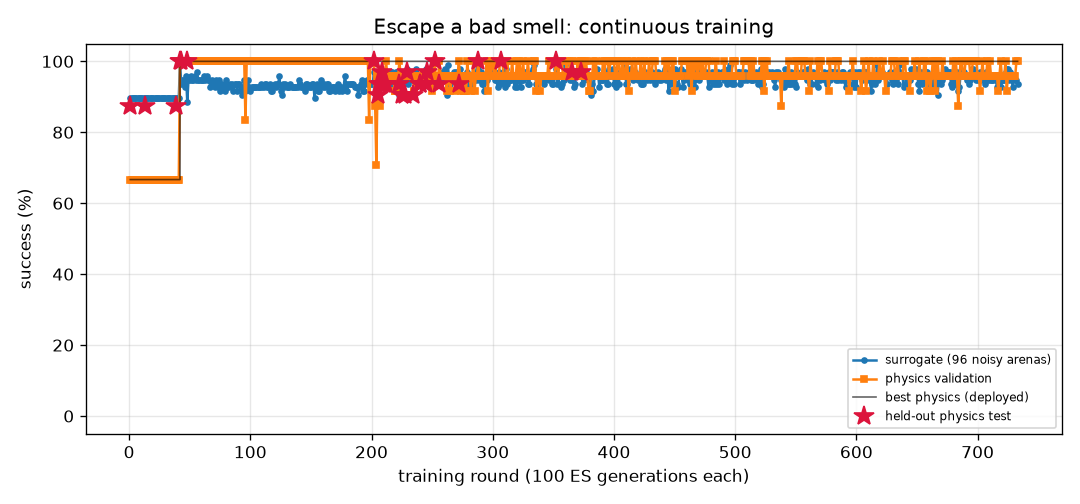
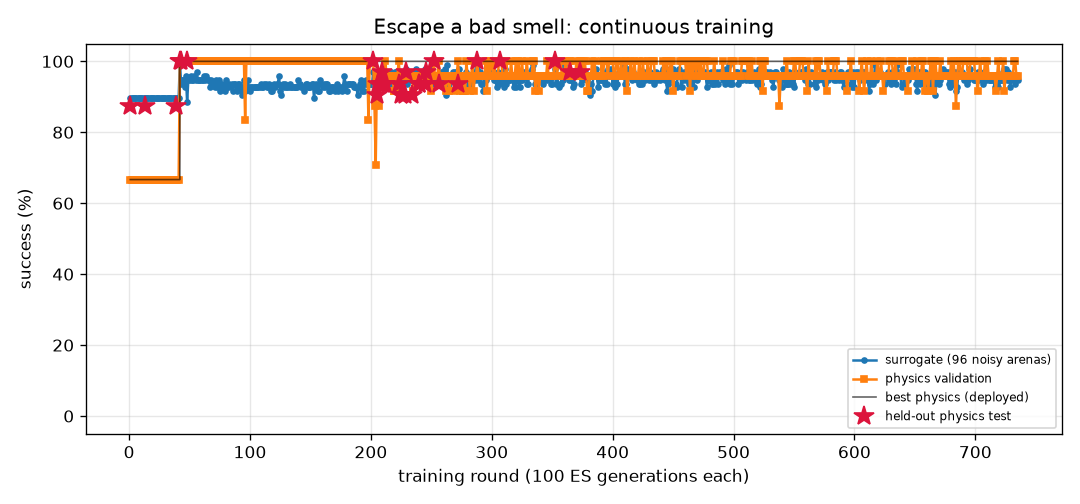
FlyLab: continuous training progress
- walk_forward: optimal, physics val 100% of 24, round 261
- turn: optimal, physics val 100% of 24, round 808
- goto: optimal, physics val 100% of 24, round 214
- odor_seek: optimal, physics val 100% of 24, round 182
- odor_avoid: optimal, physics val 100% of 24, round 735
- light_seek: optimal, physics val 100% of 24, round 409
- light_avoid: optimal, physics val 100% of 24, round 467

diff --git a/projects/09_flylab/training/odor_avoid/REPORT.md b/projects/09_flylab/training/odor_avoid/REPORT.md
@@ -1,14 +1,14 @@
 # Escape a bad smell (`odor_avoid`) — training report
 
-*Auto-generated by `train_brains.py`, last updated 2026-11-01T22:56:34.*
+*Auto-generated by `train_brains.py`, last updated 2026-11-02T19:42:33.*
 
 ![curve](curve.png)
 
 | | |
 |---|---|
-| rounds | 733 |
-| ES generations | 73300 |
-| physics runs | 14898 |
+| rounds | 735 |
+| ES generations | 73500 |
+| physics runs | 14946 |
 | status | **optimal** |
 | best brain | round 373: physics validation **100%** on 24 arenas, surrogate 97% |
 | held-out physics test | **97%** on 32 unseen arenas (95% CI 84%-99%) (errors: [62.0, 57.4, 62.6, 61.9, 59.0, 61.6, 56.5, 60.7, 31.7, 60.9, 63.1, 57.1, 61.1, 62.1, 61.5, 60.2, 62.2, 55.2, 62.1, 54.2, 61.3, 62.0, 58.0, 61.9, 59.8, 56.5, 56.3, 56.4, 56.3, 57.7, 61.9, 32.4]) |
@@ -17,8 +17,6 @@ Physics error per arena: mm gained away from source (> 6 without first approachi
 
 | round | level | gens | sigma | surrogate | physics val | val errors | test | note |
 |---:|---:|---:|---:|---:|---:|---|---:|---|
-| 694 | 3 | 69400 | 0.026 | 95% | 96% | [61.2, 60.4, 56.4, 60.7, 61.8, 62.2, 62.0, 27.5, 62.1, 56.0, 60.4, 61.6, 50.8, 55.8, 31.2, 59.8, 61.9, 60.8, 54.4, 57.2, 61.7, 50.9, 59.7, 53.4] |  |  |
-| 695 | 3 | 69500 | 0.027 | 98% | 96% | [61.1, 56.0, 55.9, 59.6, 61.8, 59.0, 61.5, 32.1, 61.5, 60.8, 60.8, 61.8, 51.7, 55.6, 34.0, 61.4, 61.8, 62.0, 54.6, 55.7, 61.6, 53.8, 60.1, 51.9] |  |  |
 | 696 | 3 | 69600 | 0.025 | 98% | 100% | [61.4, 58.4, 55.9, 59.2, 61.5, 60.9, 60.6, 43.7, 60.9, 42.9, 59.3, 61.3, 51.3, 57.1, 50.6, 61.1, 60.6, 60.8, 54.0, 54.4, 61.5, 61.7, 59.5, 59.3] |  |  |
 | 697 | 3 | 69700 | 0.025 | 96% | 100% | [60.5, 59.3, 57.4, 59.7, 61.4, 62.8, 61.1, 45.9, 61.4, 61.8, 57.2, 61.4, 51.9, 58.2, 40.2, 61.4, 61.5, 62.3, 54.4, 58.4, 61.6, 61.1, 60.0, 60.8] |  | restart from best |
 | 698 | 3 | 69800 | 0.026 | 96% | 100% | [62.6, 57.3, 57.4, 59.2, 62.4, 61.9, 61.0, 60.1, 61.7, 60.2, 62.2, 62.0, 55.3, 58.2, 51.7, 62.3, 62.1, 61.9, 55.4, 57.1, 62.7, 62.6, 61.5, 62.1] |  |  |
@@ -57,3 +55,5 @@ Physics error per arena: mm gained away from source (> 6 without first approachi
 | 731 | 3 | 73100 | 0.026 | 95% | 96% | [61.3, 56.5, 55.6, 56.2, 61.6, 60.0, 61.4, 35.8, 61.2, 59.8, 61.6, 61.7, 54.6, 57.3, 35.9, 60.6, 61.7, 59.9, 55.4, 56.6, 61.9, 60.3, 59.2, 59.4] |  |  |
 | 732 | 3 | 73200 | 0.027 | 95% | 100% | [57.4, 51.2, 54.4, 51.4, 56.3, 54.9, 57.9, 54.1, 55.0, 52.2, 46.4, 58.6, 46.9, 53.4, 37.6, 56.6, 59.0, 55.8, 49.8, 54.2, 58.6, 48.8, 54.4, 56.9] |  |  |
 | 733 | 3 | 73300 | 0.027 | 94% | 100% | [55.9, 52.9, 52.4, 52.5, 53.3, 53.3, 52.2, 54.4, 53.3, 43.3, 26.4, 56.5, 44.8, 48.2, 16.0, 54.0, 56.6, 51.9, 47.9, 51.4, 56.3, 54.2, 51.7, 55.3] |  | restart from best |
+| 734 | 3 | 73400 | 0.026 | 96% | 96% | [62.6, 59.0, 56.1, 61.3, 61.8, 61.5, 60.9, 26.1, 61.2, 51.3, 60.6, 61.4, 51.6, 55.9, 36.9, 61.9, 62.2, 56.5, 54.6, 56.7, 61.9, 58.0, 59.5, 48.0] |  |  |
+| 735 | 3 | 73500 | 0.026 | 95% | 96% | [63.6, 61.3, 56.3, 59.1, 61.9, 62.5, 61.9, 45.1, 61.1, 60.5, 61.5, 62.1, 53.6, 56.1, 44.0, 61.8, 62.0, 62.6, 55.6, 58.4, 62.1, 61.3, 57.1, 62.4] |  |  |

diff --git a/projects/09_flylab/training/turn/REPORT.md b/projects/09_flylab/training/turn/REPORT.md
@@ -1,14 +1,14 @@
 # Turn in place (`turn`) — training report
 
-*Auto-generated by `train_brains.py`, last updated 2026-11-02T19:12:30.*
+*Auto-generated by `train_brains.py`, last updated 2026-11-02T19:20:21.*
 
 ![curve](curve.png)
 
 | | |
 |---|---|
-| rounds | 807 |
-| ES generations | 80700 |
-| physics runs | 19614 |
+| rounds | 808 |
+| ES generations | 80800 |
+| physics runs | 19638 |
 | status | **optimal** |
 | best brain | round 80: physics validation **100%** on 24 arenas, surrogate 100% |
 | held-out physics test | **97%** on 32 unseen arenas (95% CI 84%-99%) (errors: [1.6, 3.3, 6.3, 3.7, 1.1, 0.4, 2.4, 2.9, 0.1, 2.6, 0.5, 2.7, 1.5, 3.1, 4.5, 0.2, 0.5, 1.1, 2.0, 4.4, 2.8, 3.2, 0.3, 2.2, 0.5, 3.0, 0.3, 5.4, 0.4, 1.0, 4.7, 10.7]) |
@@ -17,7 +17,6 @@ Physics error per arena: deg from target heading (< 20 = success).
 
 | round | level | gens | sigma | surrogate | physics val | val errors | test | note |
 |---:|---:|---:|---:|---:|---:|---|---:|---|
-| 768 | 3 | 76800 | 0.025 | 99% | 92% | [2.6, 2.1, 4.3, 2.9, 4.6, 0.0, 7.1, 6.2, 7.2, 0.5, 5.3, 1.7, 0.7, 2.2, 4.3, 2.1, 1.6, 1.5, 0.6, 2.0, 6.3, 2.6, 6.0, 1.9] |  | restart from best |
 | 769 | 3 | 76900 | 0.024 | 100% | 75% | [6.7, 7.9, 1.4, 1.8, 1.3, 2.3, 4.2, 3.4, 3.4, 0.5, 3.9, 0.8, 3.9, 2.6, 3.8, 0.5, 0.8, 1.2, 0.8, 0.9, 2.9, 1.2, 3.5, 1.5] |  |  |
 | 770 | 3 | 77000 | 0.024 | 97% | 79% | [5.8, 3.0, 5.5, 0.4, 8.1, 1.2, 6.3, 8.2, 5.9, 0.2, 5.8, 0.1, 1.9, 0.3, 5.2, 2.1, 0.2, 1.3, 1.7, 1.5, 7.8, 0.0, 6.8, 6.0] |  |  |
 | 771 | 3 | 77100 | 0.026 | 99% | 71% | [0.6, 6.1, 2.3, 2.8, 3.4, 0.5, 5.6, 0.5, 4.7, 1.1, 5.2, 0.5, 0.4, 0.8, 6.2, 1.2, 0.9, 2.5, 1.1, 1.0, 5.4, 2.6, 5.9, 4.5] |  |  |
@@ -57,3 +56,4 @@ Physics error per arena: deg from target heading (< 20 = success).
 | 805 | 3 | 80500 | 0.024 | 97% | 58% | [8.8, 9.3, 0.9, 0.8, 3.8, 0.5, 4.0, 3.9, 4.2, 0.5, 2.2, 0.9, 1.2, 3.2, 4.3, 1.2, 0.3, 0.9, 1.4, 0.7, 8.8, 2.0, 4.4, 3.6] |  |  |
 | 806 | 3 | 80600 | 0.026 | 100% | 96% | [4.5, 7.8, 1.9, 3.4, 0.8, 0.9, 4.2, 3.3, 1.9, 0.9, 2.8, 0.2, 2.7, 0.6, 2.8, 0.5, 0.5, 1.7, 0.9, 0.4, 3.0, 0.9, 6.0, 2.1] |  |  |
 | 807 | 3 | 80700 | 0.024 | 100% | 83% | [0.0, 4.2, 7.3, 1.6, 3.7, 1.3, 7.3, 9.4, 7.2, 0.8, 6.8, 1.7, 1.5, 0.7, 6.9, 3.0, 1.4, 4.3, 4.3, 3.5, 2.1, 2.3, 8.3, 9.0] |  |  |
+| 808 | 3 | 80800 | 0.024 | 99% | 75% | [8.9, 6.8, 1.3, 0.1, 11.7, 4.7, 5.2, 4.1, 5.0, 13.7, 4.8, 2.9, 0.3, 2.3, 4.1, 1.5, 2.5, 1.6, 1.5, 16.7, 8.5, 0.6, 1.8, 0.6] |  | restart from best |

diff --git a/README.md b/README.md
@@ -89,17 +89,17 @@ automatically as training improves it.*
 </p>
 
 <!-- BRAINS:START -->
-**Status on 2026-11-01** (rewritten daily by `daily.py`; the [dashboard](https://rohitcraftsyt.github.io/FruitFlyBrain/projects/09_flylab/dashboard/) is live):
+**Status on 2026-11-02** (rewritten daily by `daily.py`; the [dashboard](https://rohitcraftsyt.github.io/FruitFlyBrain/projects/09_flylab/dashboard/) is live):
 
 | Skill brain | Rounds | Physics validation | **Held-out physics test** (95% CI) | Fresh-arena check | Status |
 |---|---:|---:|---:|---:|---|
-| Walk forward | 247 | 100% of 24 | **100% of 32** (89%–100%) | 100% of 16 (2026-11-01) | ✅ optimal |
-| Turn in place | 781 | 100% of 24 | **97% of 32** (84%–99%) | 100% of 16 (2026-11-01) | ✅ optimal |
-| Go to a location | 204 | 100% of 24 | **100% of 32** (89%–100%) | 100% of 16 (2026-11-01) | ✅ optimal |
-| Find food by smell | 174 | 100% of 24 | **100% of 32** (89%–100%) | 100% of 16 (2026-11-01) | ✅ optimal |
-| Escape a bad smell | 711 | 100% of 24 | **97% of 32** (84%–99%) | 100% of 16 (2026-11-01) | ✅ optimal |
-| Walk toward light | 399 | 100% of 24 | **100% of 32** (89%–100%) | 100% of 16 (2026-11-01) | ✅ optimal |
-| Hide from light | 447 | 100% of 24 | **100% of 32** (89%–100%) | 100% of 16 (2026-11-01) | ✅ optimal |
+| Walk forward | 261 | 100% of 24 | **100% of 32** (89%–100%) | 100% of 16 (2026-11-02) | ✅ optimal |
+| Turn in place | 808 | 100% of 24 | **97% of 32** (84%–99%) | 100% of 16 (2026-11-02) | ✅ optimal |
+| Go to a location | 214 | 100% of 24 | **100% of 32** (89%–100%) | 100% of 16 (2026-11-02) | ✅ optimal |
+| Find food by smell | 182 | 100% of 24 | **100% of 32** (89%–100%) | 100% of 16 (2026-11-02) | ✅ optimal |
+| Escape a bad smell | 735 | 100% of 24 | **97% of 32** (84%–99%) | 94% of 16 (2026-11-02) | ✅ optimal |
+| Walk toward light | 409 | 100% of 24 | **100% of 32** (89%–100%) | 100% of 16 (2026-11-02) | ✅ optimal |
+| Hide from light | 467 | 100% of 24 | **100% of 32** (89%–100%) | 100% of 16 (2026-11-02) | ✅ optimal |
 <!-- BRAINS:END -->
 
 **How it got here** (full [engineering log](projects/09_flylab/README.md#making-skills-survive-the-jump-to-physics-engineering-log)):

diff --git a/projects/09_flylab/training/TRAINING.md b/projects/09_flylab/training/TRAINING.md
@@ -1,15 +1,15 @@
 # FlyLab brains — continuous training log
 
-*Auto-generated by `train_brains.py`, last updated 2026-11-02T19:12:30.*
+*Auto-generated by `train_brains.py`, last updated 2026-11-02T19:45:20.*
 
 Every skill has its own brain and its own training process: surrogate ES rounds, physics validation in MuJoCo, keep-the-best selection, and a held-out physics test that is never used for selection. See each skill's report for its full round-by-round history. Mastery is progressive: passing a level (100% physics validation, >=95% surrogate) doubles the validation and test arena sets; a brain is **optimal** once it holds up at level 3 (>=95% of 24 validation arenas) AND scores >=90% on the 32 held-out test arenas. Test columns show 95% Wilson confidence intervals.
 
 | skill | rounds | ES generations | physics runs | surrogate | physics val | **physics test** | status |
 |---|---:|---:|---:|---:|---:|---:|---|
 | [Walk forward](walk_forward/REPORT.md) | 261 | 26100 | 6278 | 100% | 100% of 24 | 100% of 32 (CI 89-100%) | **optimal** |
-| [Turn in place](turn/REPORT.md) | 807 | 80700 | 19614 | 100% | 100% of 24 | 97% of 32 (CI 84-99%) | **optimal** |
+| [Turn in place](turn/REPORT.md) | 808 | 80800 | 19638 | 100% | 100% of 24 | 97% of 32 (CI 84-99%) | **optimal** |
 | [Go to a location](goto/REPORT.md) | 214 | 21400 | 5086 | 100% | 100% of 24 | 100% of 32 (CI 89-100%) | **optimal** |
 | [Find food by smell](odor_seek/REPORT.md) | 182 | 18200 | 3798 | 100% | 100% of 24 | 100% of 32 (CI 89-100%) | **optimal** |
-| [Escape a bad smell](odor_avoid/REPORT.md) | 733 | 73300 | 14898 | 97% | 100% of 24 | 97% of 32 (CI 84-99%) | **optimal** |
+| [Escape a bad smell](odor_avoid/REPORT.md) | 735 | 73500 | 14946 | 97% | 100% of 24 | 97% of 32 (CI 84-99%) | **optimal** |
 | [Walk toward light](light_seek/REPORT.md) | 409 | 40900 | 6696 | 100% | 100% of 24 | 100% of 32 (CI 89-100%) | **optimal** |
 | [Hide from light](light_avoid/REPORT.md) | 467 | 46700 | 11480 | 100% | 100% of 24 | 100% of 32 (CI 89-100%) | **optimal** |

diff --git a/projects/09_flylab/training/CHECKS.md b/projects/09_flylab/training/CHECKS.md
@@ -1,15 +1,15 @@
 # Daily fresh-arena checks
 
-*Auto-generated by `recheck.py`, last updated 2026-11-01T14:16:37.*
+*Auto-generated by `recheck.py`, last updated 2026-11-02T19:43:43.*
 
 Every day each optimal brain is re-run in MuJoCo on a new set of random arenas it has never seen. The fixed held-out test decides 'optimal' (>= 90%); these checks watch for brains that only look good on that fixed set. Anything under 80% is flagged.
 
 | skill | last check | brain round | fresh arenas | success (95% CI) | last 7 checks |
 |---|---|---:|---:|---|---|
-| Walk forward | 2026-11-01 | 116 | 16 | 100% (81%-100%) | 100% 100% 100% 100% 100% 100% 100% |
-| Turn in place | 2026-11-01 | 80 | 16 | 100% (81%-100%) | 94% 100% 88% 88% 100% 94% 100% |
-| Go to a location | 2026-11-01 | 176 | 16 | 100% (81%-100%) | 100% 100% 100% 100% 100% 100% 100% |
-| Find food by smell | 2026-11-01 | 137 | 16 | 100% (81%-100%) | 100% 100% 100% 100% 100% 100% 100% |
-| Escape a bad smell | 2026-11-01 | 373 | 16 | 100% (81%-100%) | 100% 94% 100% 100% 100% 100% 100% |
-| Walk toward light | 2026-11-01 | 375 | 16 | 100% (81%-100%) | 100% 100% 100% 100% 100% 100% 100% |
-| Hide from light | 2026-11-01 | 159 | 16 | 100% (81%-100%) | 100% 100% 100% 100% 100% 100% 100% |
+| Walk forward | 2026-11-02 | 116 | 16 | 100% (81%-100%) | 100% 100% 100% 100% 100% 100% 100% |
+| Turn in place | 2026-11-02 | 80 | 16 | 100% (81%-100%) | 88% 88% 100% 94% 100% 100% 100% |
+| Go to a location | 2026-11-02 | 176 | 16 | 100% (81%-100%) | 100% 100% 100% 100% 100% 100% 100% |
+| Find food by smell | 2026-11-02 | 137 | 16 | 100% (81%-100%) | 100% 100% 100% 100% 100% 100% 100% |
+| Escape a bad smell | 2026-11-02 | 373 | 16 | 94% (72%-99%) | 100% 100% 100% 100% 100% 94% 94% |
+| Walk toward light | 2026-11-02 | 375 | 16 | 100% (81%-100%) | 100% 100% 100% 100% 100% 100% 100% |
+| Hide from light | 2026-11-02 | 159 | 16 | 100% (81%-100%) | 100% 100% 100% 100% 100% 100% 100% |
